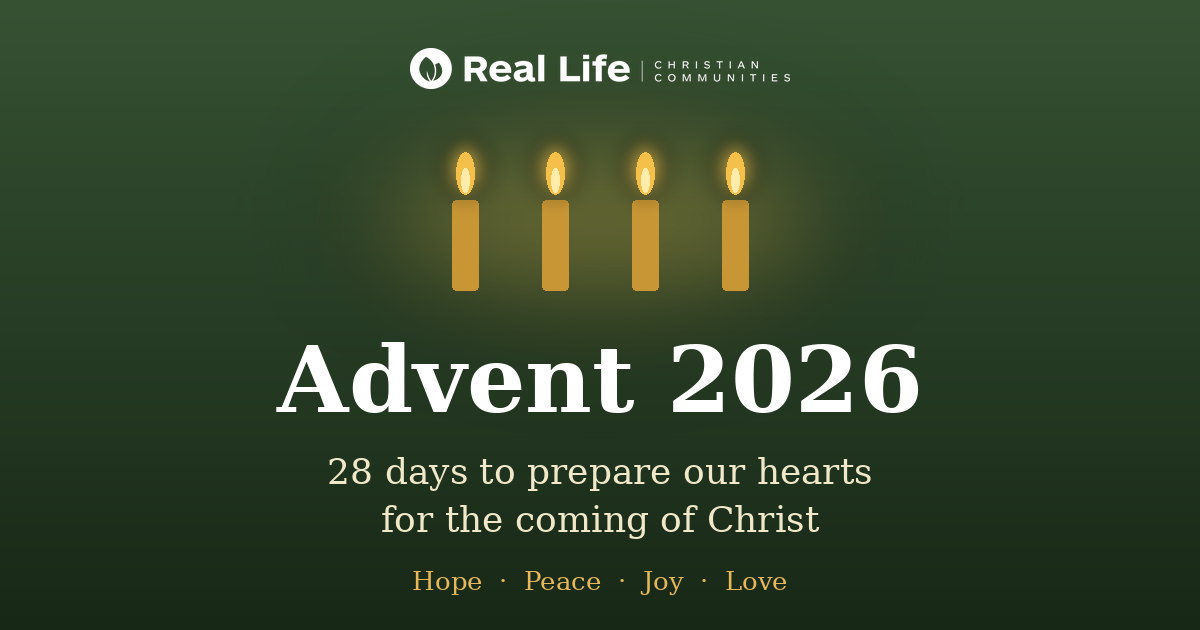
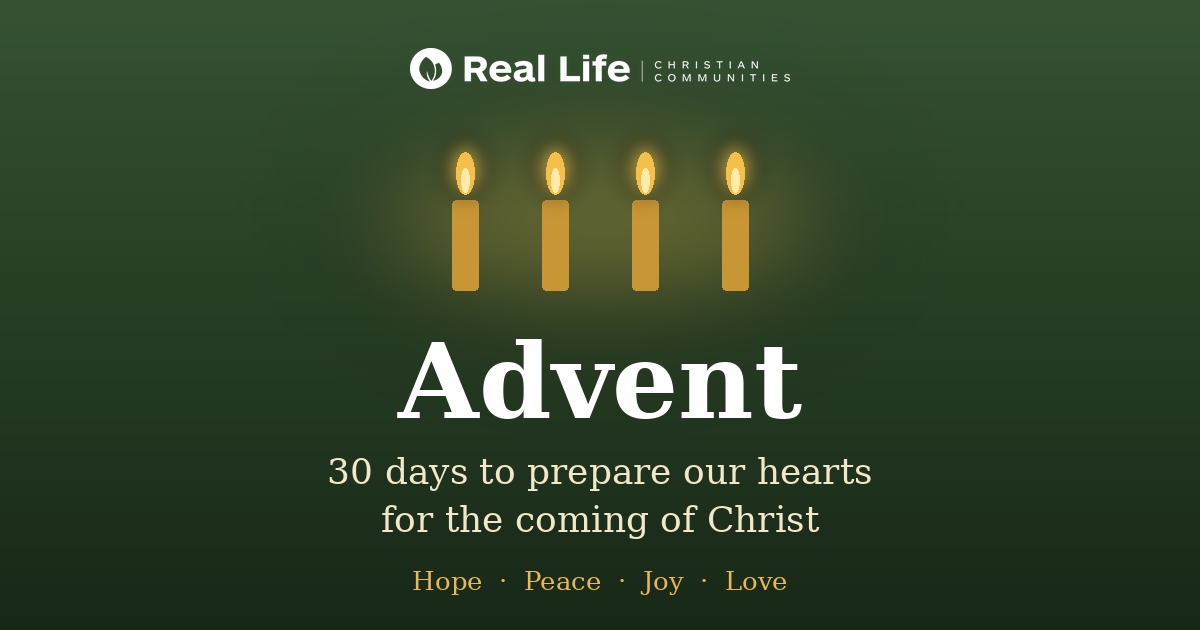
Add files via upload

Changed region(s): [[0.2158, 0.5127, 0.7708, 0.6635], [0.2775, 0.7238, 0.3083, 0.7841]]

diff --git a/index.html b/index.html
@@ -3,11 +3,11 @@
 <head>
 <meta charset="utf-8">
 <meta name="viewport" content="width=device-width,initial-scale=1">
-<title>Advent 2026 · Preparing Our Hearts</title>
-<meta name="description" content="A 28-day Advent devotional journey of Scripture, reflection, and prayer to prepare our hearts for the coming of Christ.">
+<title>Advent · Preparing Our Hearts</title>
+<meta name="description" content="A 30-day Advent devotional journey of Scripture, reflection, and prayer to prepare our hearts for the coming of Christ.">
 <meta property="og:type" content="website">
-<meta property="og:title" content="Advent 2026 · Preparing Our Hearts">
-<meta property="og:description" content="28 days of Scripture, reflection, and prayer to prepare our hearts for the coming of Christ. Begins Sunday, November 29.">
+<meta property="og:title" content="Advent · Preparing Our Hearts">
+<meta property="og:description" content="30 days of Scripture, reflection, and prayer to prepare our hearts for the coming of Christ.">
 <meta property="og:site_name" content="Real Life Christian Communities">
 <meta property="og:image" content="https://rlccphil.github.io/advent/og-image.png">
 <meta property="og:image:width" content="1200">
@@ -47,7 +47,7 @@ button{cursor:pointer}button:disabled{opacity:.4}
 .btn{display:inline-block;background:#365233;color:#fff;text-decoration:none;font:600 .95rem system-ui,sans-serif;padding:12px 22px;border-radius:999px;border:1px solid #365233}
 .btn:hover{background:#2b4229}
 @media(prefers-color-scheme:dark){.btn{background:#4b6e47;border-color:#4b6e47}.btn:hover{background:#5a8355}}
-.dots{display:grid;grid-template-columns:repeat(7,1fr);gap:6px;margin-top:16px}
+.dots{display:grid;grid-template-columns:repeat(6,1fr);gap:6px;margin-top:16px}
 .dots button{padding:8px 0;font-size:.8rem}
 .dots .cur{background:var(--navy);color:var(--bg);border-color:var(--navy)}
 </style>
@@ -56,11 +56,11 @@ button{cursor:pointer}button:disabled{opacity:.4}
 <div class="wrap">
  <div class="brand"><a href="https://www.rlcc.ph" target="_blank" rel="noopener"><img src="rlcc-logo.png" alt="Real Life Christian Communities"></a></div>
  <header>
-  <h1>Advent 2026</h1>
-  <div class="sub">28 days to prepare our hearts for the coming of Christ</div>
+  <h1 id="h1">Advent</h1>
+  <div class="sub">30 days to prepare our hearts for the coming of Christ</div>
   <div class="candles" id="candles"></div>
  </header>
- <div id="pre" class="note" hidden>Advent begins on Sunday, November 29. You are welcome to look ahead!</div>
+ <div id="pre" class="note" hidden></div>
  <div class="card" id="card"></div>
  <div class="bar">
   <button id="prev">← Previous</button>
@@ -76,25 +76,30 @@ button{cursor:pointer}button:disabled{opacity:.4}
   <a class="btn" href="https://www.rlcc.ph" target="_blank" rel="noopener">Visit Real Life Christian Communities</a>
  </div>
 </div>
+<script src="config.js"></script>
 <script src="days.js"></script>
 <script>
 const API="https://script.google.com/macros/s/AKfycby3AHCMbDHXS_r0waMPX7-8OwI6z5dq4bObK_X41cda0ocxT4-bElsm_3VsrBL2FE5hdQ/exec";
 const W=[["Hope","The Promise"],["Peace","Prepare the Way"],["Joy","Good News"],["Love","God with Us"]];
-const START=new Date(2026,10,29);
+const START=CONFIG.start?new Date(CONFIG.start[0],CONFIG.start[1]-1,CONFIG.start[2]):new Date(CONFIG.year,10,26);
+const END=new Date(START.getFullYear(),START.getMonth(),START.getDate()+DAYS.length-1);
 const $=id=>document.getElementById(id);
 const esc=s=>String(s).replace(/[&<>"]/g,c=>({"&":"&amp;","<":"&lt;",">":"&gt;",'"':"&quot;"}[c]));
 let tr="NIV";try{tr=localStorage.getItem("advTr")||"NIV"}catch(e){}
 $("tr").value=tr;
+$("h1").textContent="Advent "+CONFIG.year;document.title="Advent "+CONFIG.year+" · Preparing Our Hearts";
 const n=new Date(),t0=new Date(n.getFullYear(),n.getMonth(),n.getDate());
-const todayI=Math.min(27,Math.max(0,Math.round((t0-START)/864e5)));
+const todayI=Math.min(DAYS.length-1,Math.max(0,Math.round((t0-START)/864e5)));
 let i=todayI,tok=0;const cache={};
-const dateOf=k=>new Date(2026,10,29+k).toLocaleDateString("en-US",{weekday:"long",month:"long",day:"numeric"});
+const dateOf=k=>new Date(START.getFullYear(),START.getMonth(),START.getDate()+k).toLocaleDateString("en-US",{weekday:"long",month:"long",day:"numeric"});
 
 function render(){
  const d=DAYS[i],w=d.w-1;
- $("pre").hidden=!(t0<START);
+ const pre=$("pre");pre.hidden=!(t0<START||t0>END);
+ pre.textContent=t0>END?"This year's journey has ended. You are welcome to revisit it anytime, and we hope to journey with you again next Advent.":"This journey begins on "+START.toLocaleDateString("en-US",{weekday:"long",month:"long",day:"numeric"})+". You are welcome to look ahead!";
  $("candles").innerHTML=[1,2,3,4].map(k=>'<div class="c'+(k<=d.w?" on":"")+'"></div>').join("");
- let h='<div class="wk">Week '+d.w+' · '+W[w][0]+': '+W[w][1]+'</div><div class="date">Day '+(i+1)+' of 28 · '+dateOf(i)+'</div><h2>'+esc(d.t)+'</h2>';
+ const lab=d.w?'Week '+d.w+' · '+W[w][0]+': '+W[w][1]:'Getting Ready';
+ let h='<div class="wk">'+lab+'</div><div class="date">Day '+(i+1)+' of '+DAYS.length+' · '+dateOf(i)+'</div><h2>'+esc(d.t)+'</h2>';
  h+='<h3>Scripture</h3><div id="scr"></div>';
  if(d.b){
   h+='<h3>Reflection</h3>'+d.b.map(p=>'<p>'+esc(p)+'</p>').join('');
@@ -103,7 +108,7 @@ function render(){
   h+='<h3>Today\'s Practice</h3><p>'+esc(d.a)+'</p>';
  }else h+='<div class="note">The reflection for this day is on its way. In the meantime, read the passage slowly and ask: What does this tell me about who Jesus is and why he came?</div>';
  $("card").innerHTML=h;
- $("prev").disabled=i===0;$("next").disabled=i===27;
+ $("prev").disabled=i===0;$("next").disabled=i===DAYS.length-1;
  $("dots").innerHTML=DAYS.map((_,k)=>'<button data-k="'+k+'"'+(k===i?' class="cur"':'')+' aria-label="Day '+(k+1)+'">'+(k+1)+'</button>').join("");
  load();scrollTo(0,0);
 }
@@ -134,7 +139,7 @@ async function load(){
  }
 }
 $("prev").onclick=()=>{if(i>0){i--;render()}};
-$("next").onclick=()=>{if(i<27){i++;render()}};
+$("next").onclick=()=>{if(i<DAYS.length-1){i++;render()}};
 $("today").onclick=()=>{i=todayI;render()};
 $("dots").onclick=e=>{const k=e.target.dataset&&e.target.dataset.k;if(k!=null){i=+k;render()}};
 $("tr").onchange=e=>{tr=e.target.value;try{localStorage.setItem("advTr",tr)}catch(x){}load()};

diff --git a/days.js b/days.js
@@ -1,6 +1,16 @@
-// 28 days: Nov 29 - Dec 26, 2026. w=week, t=title, ref=display, r=API.Bible passage IDs.
+// 30 days: Nov 26 - Dec 25 (dates come from config.js). w=week (0 = Getting Ready), t=title, ref=display, r=API.Bible passage IDs.
 // Optional per day: b=reflection (array of paragraphs), q=question, p=prayer, a=practice.
 const DAYS=[
+{w:0,t:"Wake Up, Salvation Is Near",ref:"Romans 13:11–14",r:["ROM.13.11-ROM.13.14"],
+ b:["Paul tells believers that it is time to wake up from sleep, because salvation is nearer than when we first believed. Advent is a gentle wake-up call, not to anxiety, but to attentiveness. In a season crowded with schedules, shopping, and gatherings, it is easy to drift through December half asleep to what matters most.","Paul's answer is not to try harder. It is to clothe ourselves with the Lord Jesus Christ himself. As these thirty days begin, you are not preparing by your own strength. You are being invited to put on Christ."],
+ q:"What is most likely to keep you spiritually drowsy this season?",
+ p:"Lord Jesus, wake my heart. Help me to slow down, pay attention, and put on Christ each day as I prepare for Christmas. Amen.",
+ a:"Choose a regular time and place for these thirty days, and set a daily reminder on your phone."},
+{w:0,t:"Open the Gates for the King",ref:"Psalm 24",r:["PSA.24.1-PSA.24.10"],
+ b:["Psalm 24 asks who may stand in the Lord's holy place, and the answer is the one with clean hands and a pure heart. That is a standard none of us meets on our own. Then the psalm turns, calling the gates to lift up their heads, because the King of glory is coming in.","Advent holds both truths together: our need, and the King who comes to meet it. Jesus alone has clean hands and a pure heart, and because of him we are welcomed in. So we open the doors of our hearts, the way we would ready a home for an honored guest."],
+ q:"What in your heart needs to be opened up or swept out to welcome the King?",
+ p:"King of glory, I open my heart to you. Forgive what I have held back, and come in. Thank you that in Christ I am welcome in your presence. Amen.",
+ a:"Spend a few quiet minutes confessing honestly to God, and receive his forgiveness in Christ (1 John 1:9)."},
 {w:1,t:"The First Promise",ref:"Genesis 3:8–15",r:["GEN.3.8-GEN.3.15"],
  b:["Adam and Eve hid in shame, yet God came looking for them. Before he spoke a word of consequence, he spoke a promise: a child of the woman would one day crush the serpent. Advent begins not with our search for God, but with God's search for us.","Every Christmas story flows from this first whisper of rescue. As the season opens, you don't have to tidy yourself up first. Come out from hiding and let the promise meet you right where you are."],
  q:"Where are you tempted to hide from God right now?",
@@ -54,7 +64,7 @@ const DAYS=[
 {w:4,t:"He Humbled Himself",ref:"Philippians 2:5–11",r:["PHP.2.5-PHP.2.11"]},
 {w:4,t:"Adopted as Sons and Daughters",ref:"Galatians 4:4–7",r:["GAL.4.4-GAL.4.7"]},
 {w:4,t:"Love Came Down",ref:"1 John 4:9–14",r:["1JN.4.9-1JN.4.14"]},
+{w:4,t:"Grace Has Appeared, and He Is Coming Again",ref:"Titus 2:11–14; Revelation 22:20",r:["TIT.2.11-TIT.2.14","REV.22.20-REV.22.20"]},
 {w:4,t:"Christmas Eve: Born in Bethlehem",ref:"Luke 2:1–7",r:["LUK.2.1-LUK.2.7"]},
-{w:4,t:"Christmas Day: Good News of Great Joy",ref:"Luke 2:8–20",r:["LUK.2.8-LUK.2.20"]},
-{w:4,t:"Grace Has Appeared, and He Is Coming Again",ref:"Titus 2:11–14; Revelation 22:20",r:["TIT.2.11-TIT.2.14","REV.22.20-REV.22.20"]}
+{w:4,t:"Christmas Day: Good News of Great Joy",ref:"Luke 2:8–20",r:["LUK.2.8-LUK.2.20"]}
 ];

diff --git a/config.js b/config.js
@@ -1,0 +1,7 @@
+// Yearly settings. Each new Advent, change only `year` (and `start` if you ever want a different date).
+const CONFIG={
+ year:2026,
+ // null = automatic: the 30 days start on November 26 of `year`, so the journey always ends on
+ // December 25 (Christmas Day is Day 30, Christmas Eve is Day 29). Or set a date: [2026, 11, 26]
+ start:null
+};
